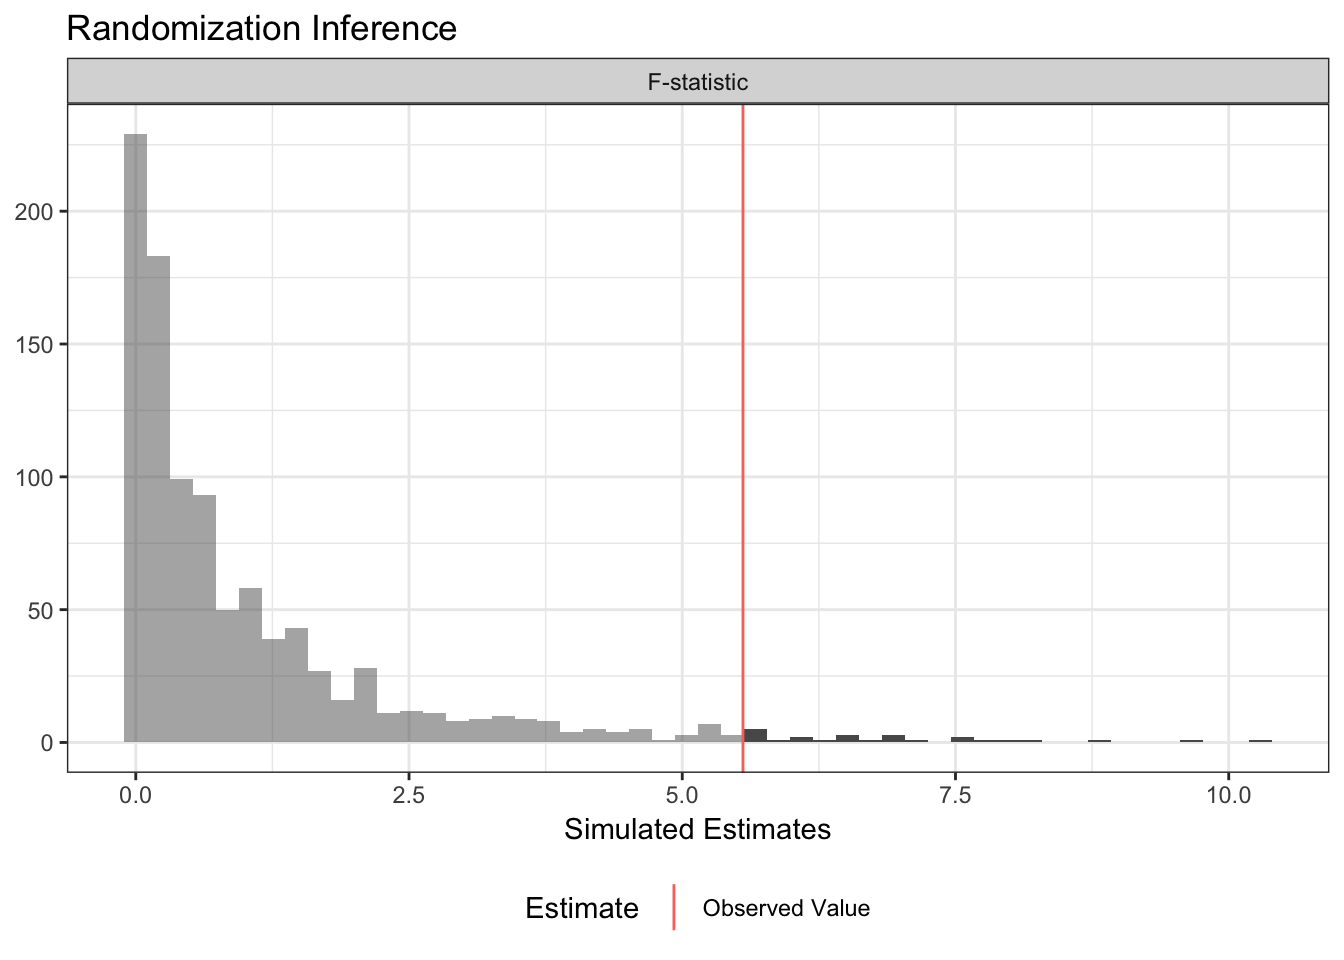
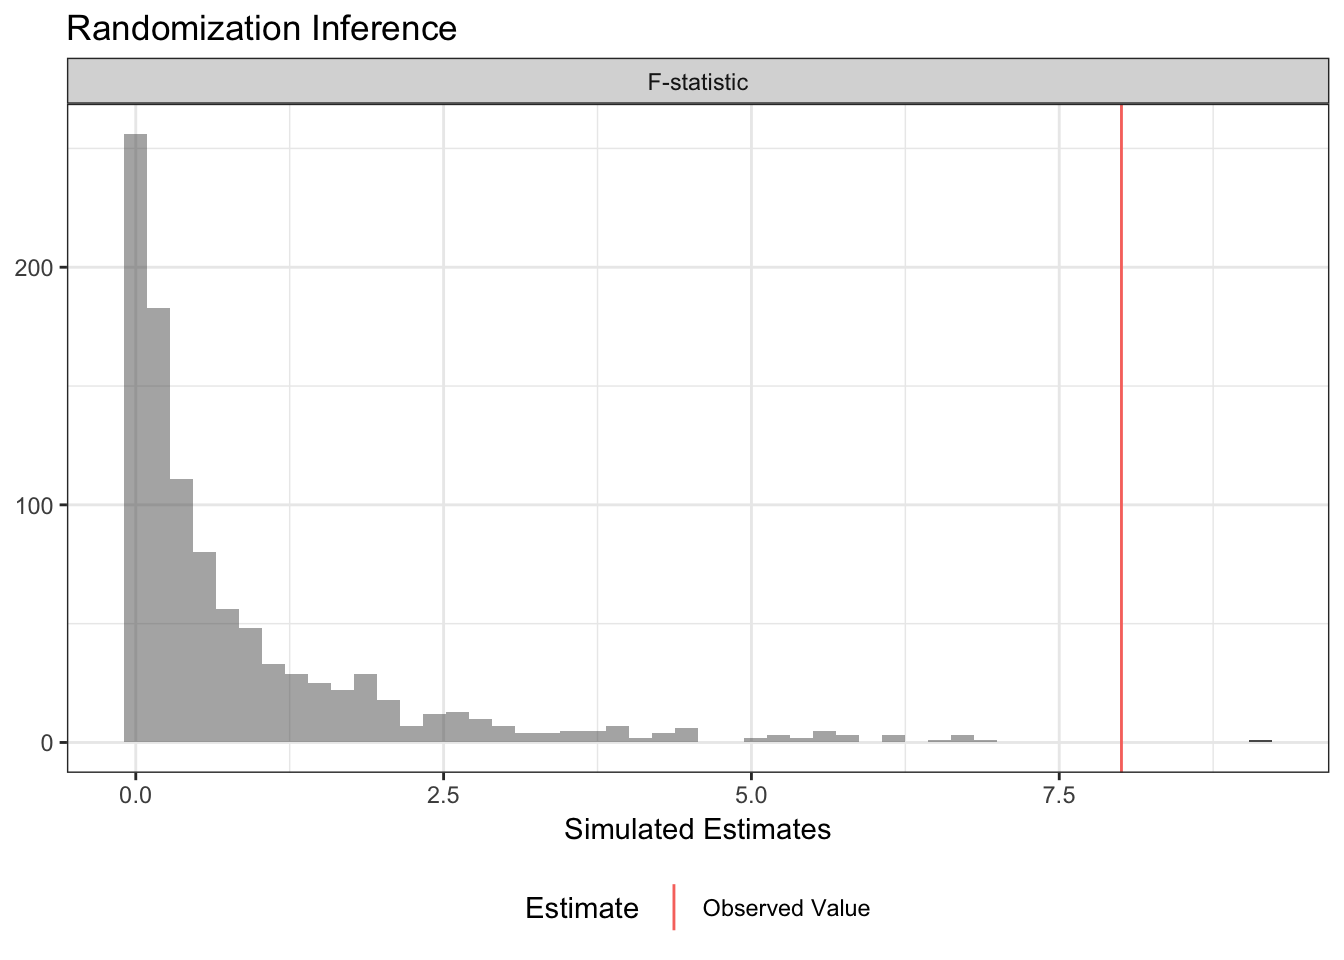
pkgdown

diff --git a/docs/articles/ri2_vignette.html b/docs/articles/ri2_vignette.html
@@ -206,7 +206,7 @@ ri2_out &lt;-
 <pre><code>## # A tibble: 1 x 5
 ##   coefficient estimate p_value null_ci_lower null_ci_upper
 ##        &lt;fctr&gt;    &lt;dbl&gt;   &lt;dbl&gt;         &lt;dbl&gt;         &lt;dbl&gt;
-## 1 F-statistic 0.730733   0.466    0.02452515      3.515158</code></pre>
+## 1 F-statistic 1.013715   0.383     0.0262644      3.842811</code></pre>
 <div class="sourceCode"><pre class="sourceCode r"><code class="sourceCode r"><span class="co"># for comparison</span>
 <span class="kw">anova</span>(<span class="kw">lm</span>(Y ~<span class="st"> </span><span class="dv">1</span>, <span class="dt">data =</span> df), 
       <span class="kw">lm</span>(Y ~<span class="st"> </span>Z, <span class="dt">data =</span> df))</code></pre></div>
@@ -215,8 +215,8 @@ ri2_out &lt;-
 ## Model 1: Y ~ 1
 ## Model 2: Y ~ Z
 ##   Res.Df    RSS Df Sum of Sq      F Pr(&gt;F)
-## 1     99 126.27                           
-## 2     97 124.40  2    1.8742 0.7307 0.4842</code></pre>
+## 1     99 90.258                           
+## 2     97 88.411  2    1.8479 1.0137 0.3667</code></pre>
 </div>
 <div id="interaction-terms" class="section level2">
 <h2 class="hasAnchor">
@@ -233,8 +233,8 @@ df &lt;-<span class="st"> </span><span class="kw">data.frame</span>(X, Y, Z)
 <span class="co"># Observed ATE</span>
 ate_hat &lt;-<span class="st"> </span><span class="kw">coef</span>(<span class="kw">lm</span>(Y ~<span class="st"> </span>Z, <span class="dt">data =</span> df))[<span class="dv">2</span>]
 ate_hat</code></pre></div>
-<pre><code>##          Z 
-## 0.07904249</code></pre>
+<pre><code>##         Z 
+## 0.1140205</code></pre>
 <div class="sourceCode"><pre class="sourceCode r"><code class="sourceCode r">ri2_out &lt;-
 <span class="st">  </span><span class="kw"><a href="../reference/conduct_ri.html">conduct_ri</a></span>(
     <span class="dt">model_1 =</span> Y ~<span class="st"> </span>Z +<span class="st"> </span>X, <span class="co"># restricted model</span>
@@ -250,7 +250,7 @@ ate_hat</code></pre></div>
 <pre><code>## # A tibble: 1 x 5
 ##   coefficient estimate p_value null_ci_lower null_ci_upper
 ##        &lt;fctr&gt;    &lt;dbl&gt;   &lt;dbl&gt;         &lt;dbl&gt;         &lt;dbl&gt;
-## 1 F-statistic 5.555619   0.025  0.0005642382      5.443032</code></pre>
+## 1 F-statistic 8.005271   0.001   0.001855848      4.457152</code></pre>
 <div class="sourceCode"><pre class="sourceCode r"><code class="sourceCode r"><span class="co"># for comparison</span>
 <span class="kw">anova</span>(<span class="kw">lm</span>(Y ~<span class="st"> </span>Z +<span class="st"> </span>X, <span class="dt">data =</span> df),
       <span class="kw">lm</span>(Y ~<span class="st"> </span>Z +<span class="st"> </span>X +<span class="st"> </span>Z*X, <span class="dt">data =</span> df))</code></pre></div>
@@ -258,9 +258,9 @@ ate_hat</code></pre></div>
 ## 
 ## Model 1: Y ~ Z + X
 ## Model 2: Y ~ Z + X + Z * X
-##   Res.Df    RSS Df Sum of Sq      F  Pr(&gt;F)  
-## 1     97 96.716                              
-## 2     96 91.425  1    5.2909 5.5556 0.02045 *
+##   Res.Df    RSS Df Sum of Sq      F   Pr(&gt;F)   
+## 1     97 92.566                                
+## 2     96 85.441  1    7.1248 8.0053 0.005679 **
 ## ---
 ## Signif. codes:  0 '***' 0.001 '**' 0.01 '*' 0.05 '.' 0.1 ' ' 1</code></pre>
 </div>
@@ -287,7 +287,7 @@ test_fun &lt;-<span class="st"> </span>function(data) {
 
 <span class="co"># confirm it works</span>
 <span class="kw">test_fun</span>(df)</code></pre></div>
-<pre><code>## [1] 0.2610553</code></pre>
+<pre><code>## [1] 0.1750617</code></pre>
 <div class="sourceCode"><pre class="sourceCode r"><code class="sourceCode r">ri2_out &lt;-
 <span class="kw"><a href="../reference/conduct_ri.html">conduct_ri</a></span>(
   <span class="dt">test_function =</span> test_fun,
@@ -304,7 +304,7 @@ test_fun &lt;-<span class="st"> </span>function(data) {
 <pre><code>## # A tibble: 1 x 5
 ##             coefficient  estimate p_value null_ci_lower null_ci_upper
 ##                  &lt;fctr&gt;     &lt;dbl&gt;   &lt;dbl&gt;         &lt;dbl&gt;         &lt;dbl&gt;
-## 1 Custom Test Statistic 0.2610553       0    -0.1283283     0.1392663</code></pre>
+## 1 Custom Test Statistic 0.1750617       0   -0.08931922    0.09008413</code></pre>
 </div>
 <div id="balance-test" class="section level2">
 <h2 class="hasAnchor">
@@ -329,7 +329,7 @@ balance_fun &lt;-<span class="st"> </span>function(data) {
 <span class="co"># Confirm it works!</span>
 <span class="kw">balance_fun</span>(df)</code></pre></div>
 <pre><code>##    value 
-## 3.388526</code></pre>
+## 1.534802</code></pre>
 <div class="sourceCode"><pre class="sourceCode r"><code class="sourceCode r">ri2_out &lt;-
 <span class="st">  </span><span class="kw"><a href="../reference/conduct_ri.html">conduct_ri</a></span>(
   <span class="dt">test_function =</span> balance_fun,
@@ -346,7 +346,7 @@ balance_fun &lt;-<span class="st"> </span>function(data) {
 <pre><code>## # A tibble: 1 x 5
 ##             coefficient estimate p_value null_ci_lower null_ci_upper
 ##                  &lt;fctr&gt;    &lt;dbl&gt;   &lt;dbl&gt;         &lt;dbl&gt;         &lt;dbl&gt;
-## 1 Custom Test Statistic 3.388526   0.028    0.07669147      3.443275</code></pre>
+## 1 Custom Test Statistic 1.534802   0.206    0.08059371      2.936468</code></pre>
 <div class="sourceCode"><pre class="sourceCode r"><code class="sourceCode r"><span class="co"># For comparison</span>
 <span class="kw">summary</span>(<span class="kw">lm</span>(Z ~<span class="st"> </span>X1 +<span class="st"> </span>X2 +<span class="st"> </span>X3, <span class="dt">data =</span> df))</code></pre></div>
 <pre><code>## 
@@ -355,20 +355,20 @@ balance_fun &lt;-<span class="st"> </span>function(data) {
 ## 
 ## Residuals:
 ##      Min       1Q   Median       3Q      Max 
-## -0.68344 -0.38724  0.01496  0.37179  0.72649 
+## -0.76756 -0.47923 -0.07091  0.46248  0.70067 
 ## 
 ## Coefficients:
-##               Estimate Std. Error t value Pr(&gt;|t|)   
-## (Intercept)  0.3526685  0.1086830   3.245  0.00162 **
-## X1          -0.0391688  0.0502811  -0.779  0.43790   
-## X2           0.2973964  0.0971604   3.061  0.00286 **
-## X3          -0.0002006  0.0309656  -0.006  0.99485   
+##             Estimate Std. Error t value Pr(&gt;|t|)    
+## (Intercept)  0.45038    0.10145   4.439 2.41e-05 ***
+## X1           0.01233    0.05023   0.245    0.807    
+## X2          -0.15874    0.10039  -1.581    0.117    
+## X3           0.04288    0.02664   1.610    0.111    
 ## ---
 ## Signif. codes:  0 '***' 0.001 '**' 0.01 '*' 0.05 '.' 0.1 ' ' 1
 ## 
-## Residual standard error: 0.4853 on 96 degrees of freedom
-## Multiple R-squared:  0.09575,    Adjusted R-squared:  0.06749 
-## F-statistic: 3.389 on 3 and 96 DF,  p-value: 0.02118</code></pre>
+## Residual standard error: 0.4985 on 96 degrees of freedom
+## Multiple R-squared:  0.04577,    Adjusted R-squared:  0.01595 
+## F-statistic: 1.535 on 3 and 96 DF,  p-value: 0.2105</code></pre>
 </div>
 </div>
 <div id="conclusion" class="section level1">

diff --git a/docs/index.html b/docs/index.html
@@ -82,6 +82,7 @@
 </ol>
 <p>If you’d like to install the most current development release, use the following code:</p>
 <div class="sourceCode"><pre class="sourceCode r"><code class="sourceCode r"><span class="kw">install.packages</span>(<span class="st">"devtools"</span>)
+devtools::<span class="kw">install_github</span>(<span class="st">"DeclareDesign/randomizr"</span>)
 devtools::<span class="kw">install_github</span>(<span class="st">"acoppock/ri2"</span>)</code></pre></div>
 <p>Here is the basic syntax for a two-arm trial:</p>
 <div class="sourceCode"><pre class="sourceCode r"><code class="sourceCode r"><span class="kw">library</span>(ri2)
@@ -109,7 +110,7 @@ ri_out &lt;-
 <span class="co">#&gt; # A tibble: 1 x 5</span>
 <span class="co">#&gt;   coefficient  estimate p_value null_ci_lower null_ci_upper</span>
 <span class="co">#&gt;         &lt;chr&gt;     &lt;dbl&gt;   &lt;dbl&gt;         &lt;dbl&gt;         &lt;dbl&gt;</span>
-<span class="co">#&gt; 1           Z 0.4133059   0.162    -0.5595984     0.5738424</span></code></pre></div>
+<span class="co">#&gt; 1           Z 0.3099899   0.307    -0.5365926     0.5838292</span></code></pre></div>
 <p>The development of ri2 is supported by a Standards Grant from <a href="http://egap.org">EGAP</a>.</p>
 </div>
   </div>

diff --git a/README.md b/README.md
@@ -18,6 +18,7 @@ If you'd like to install the most current development release, use the following
 
 ``` r
 install.packages("devtools")
+devtools::install_github("DeclareDesign/randomizr")
 devtools::install_github("acoppock/ri2")
 ```
 
@@ -51,9 +52,9 @@ plot(ri_out)
 ``` r
 summary(ri_out)
 #> # A tibble: 1 x 5
-#>   coefficient   estimate p_value null_ci_lower null_ci_upper
-#>         <chr>      <dbl>   <dbl>         <dbl>         <dbl>
-#> 1           Z 0.04673932   0.844    -0.5298881     0.5340019
+#>   coefficient  estimate p_value null_ci_lower null_ci_upper
+#>         <chr>     <dbl>   <dbl>         <dbl>         <dbl>
+#> 1           Z 0.1333054   0.563    -0.4648467     0.4498284
 ```
 
 The development of ri2 is supported by a Standards Grant from [EGAP](http://egap.org).
